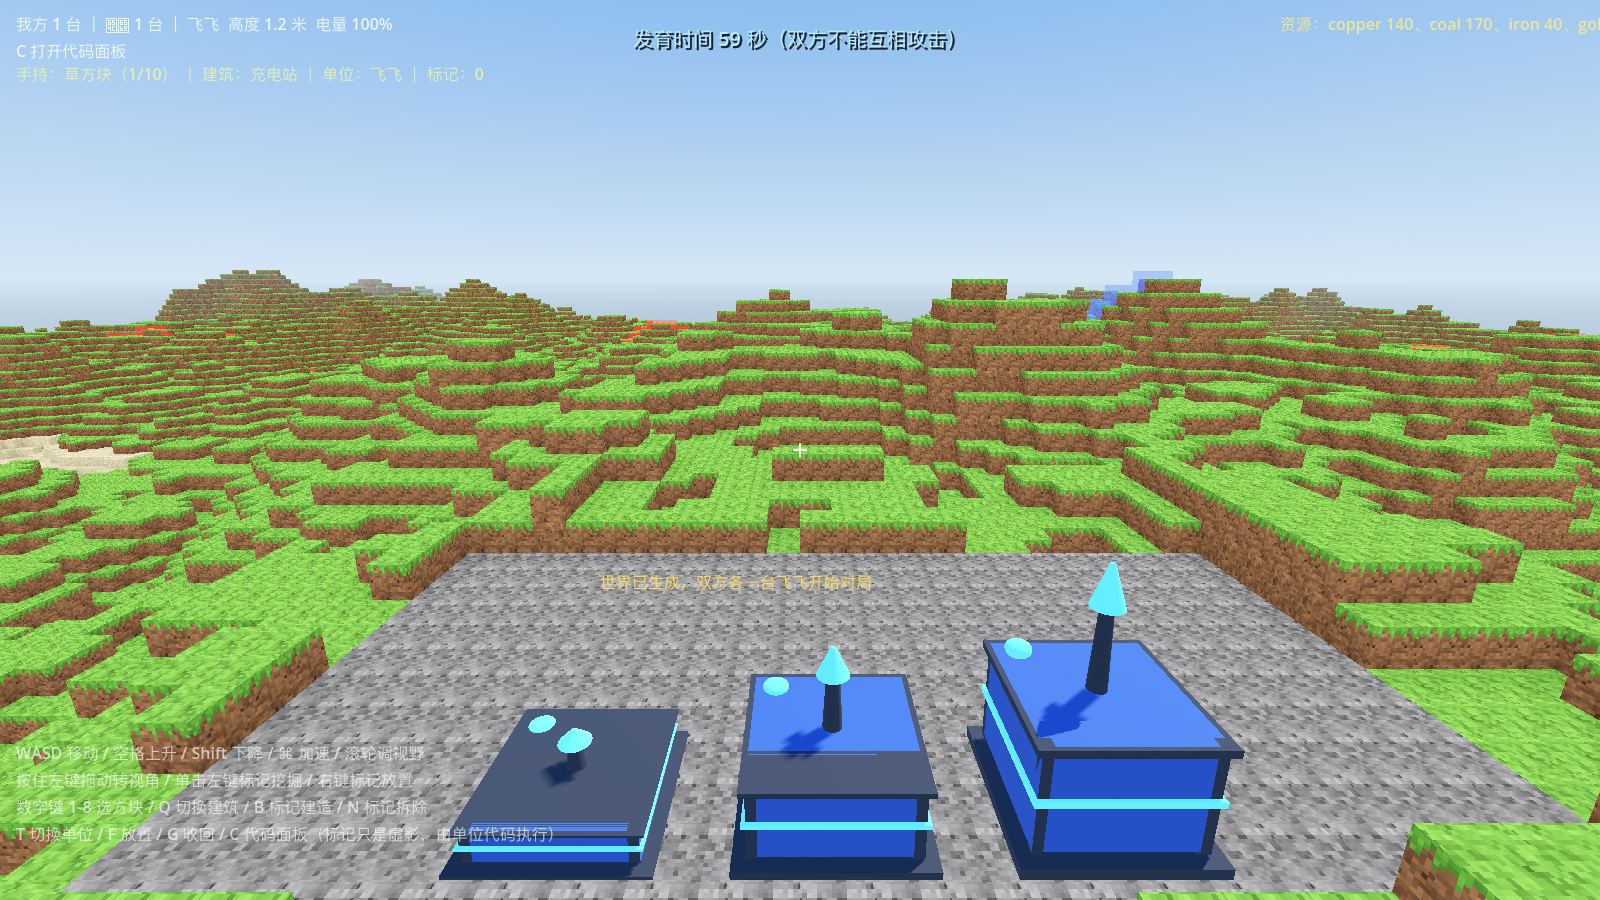
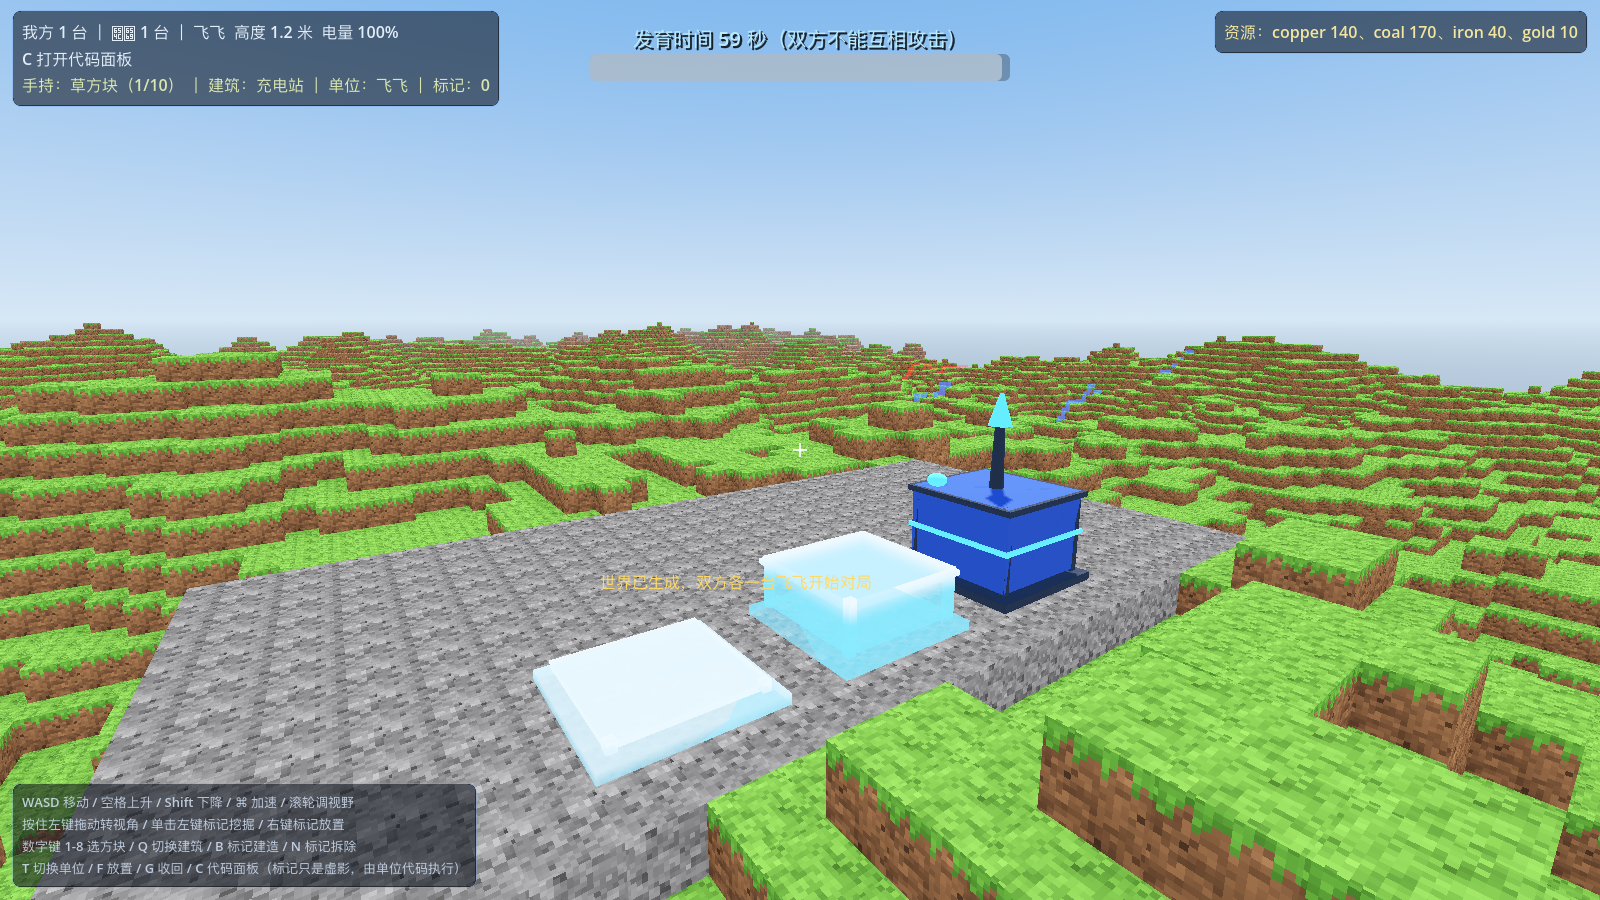
建筑不能与方块重叠（体积被占用即罢工）；施工改为从下往上的剖面切割动画（切口发光）

diff --git a/README.md b/README.md
@@ -10,6 +10,8 @@
 - **建筑不是瞬间出现的**：放下后要施工 10 秒（半透明青色"施工中"外观 + 从地基往上长），期间不产出；指挥官 AI 也会等上一栋建好再放下下一栋
 - 建筑放置要求：地面必须平整（同一高度）、**每一格底下都必须踩实**（3×3 的地基缺一格都不行）、占地方块必须是空气、不能和别的建筑重叠、脚下不能站着单位
 - **地基被挖穿会停工**：建筑整栋变红发暗、停止产出，把地基补回去就恢复
+- **不能和方块重叠**：占地体积里只要有方块（后来被别人堆进去也算）整栋立刻罢工变红，清出来才继续
+- 施工时有从下往上的剖面切割动画（切口发光），像盖楼一层层往上起
 - 采矿机不再只挖脚下 3×3 竖井，而是在半径 12、深 24 的矿区里扫矿，矿挖完了经济不会断
 - 开局资源：两边各自一套（铜 200 / 煤 200 / 铁 40 / 金 10），不会互相抢
 - 红蓝双方跑**同一套指挥官代码**（`COMMANDER_SOURCE`）：开局造矿机/组装厂/充电站，100 秒后指挥官亲自带兵压上；谁赢看谁先把经济滚起来
